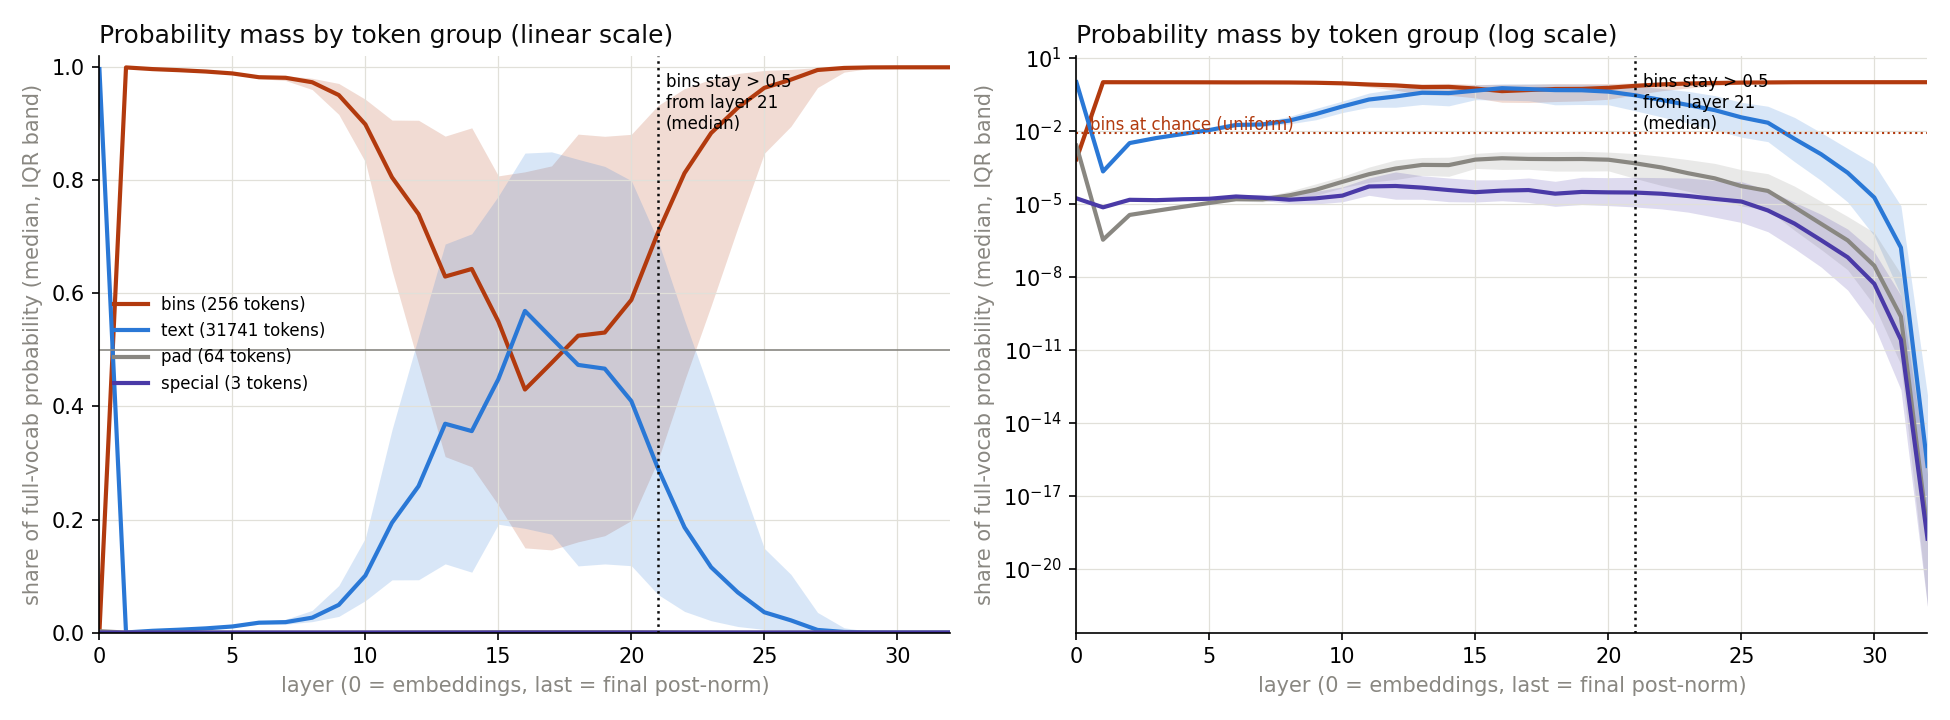
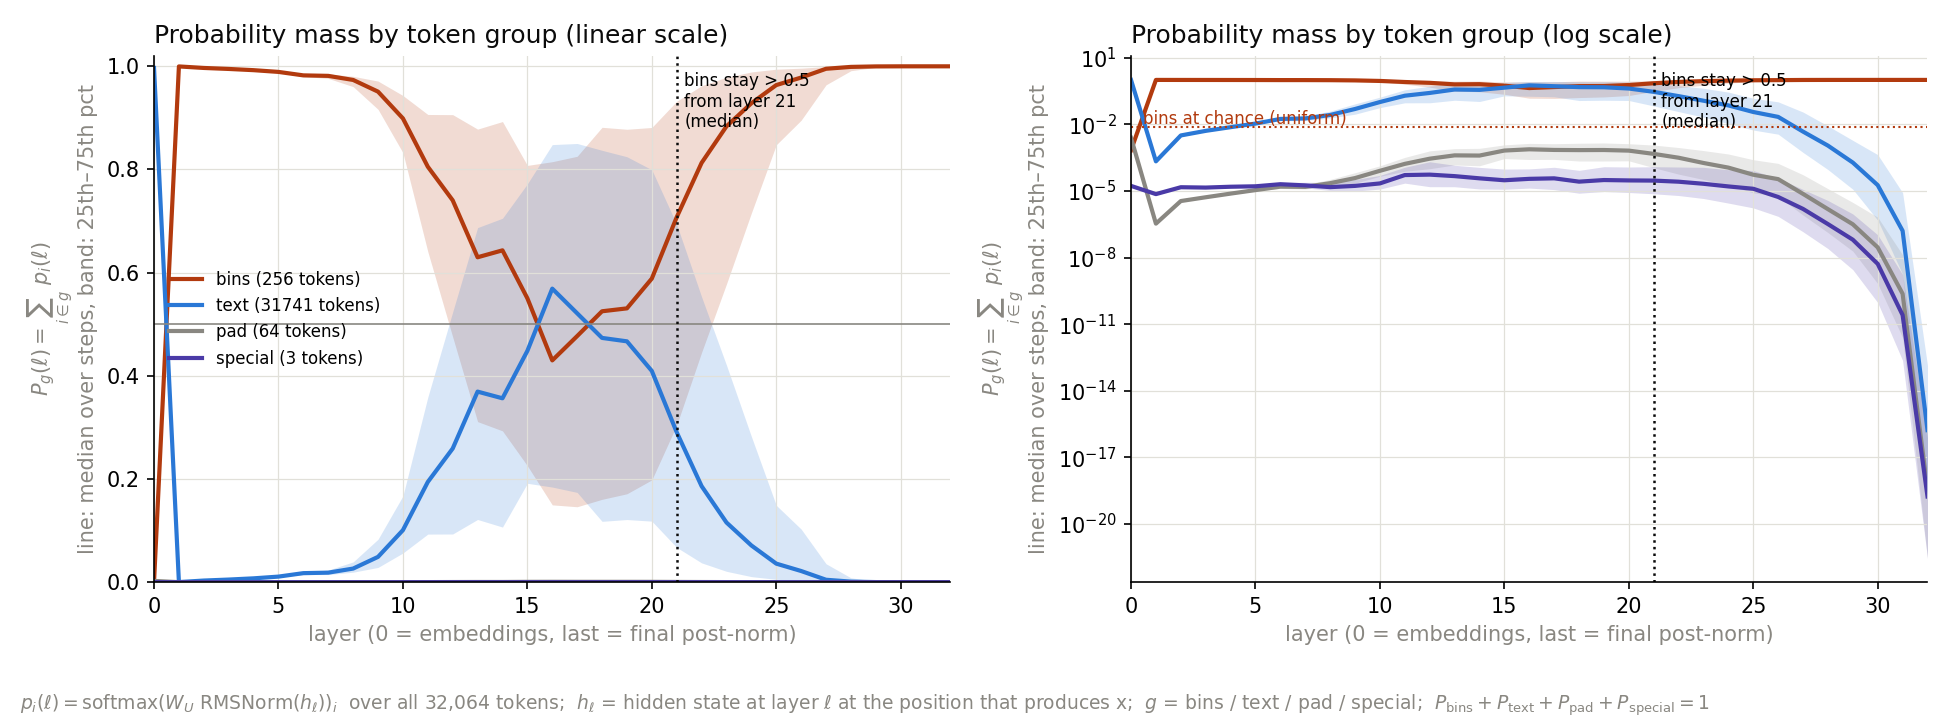
vocablens: put the P_g formula and p_i definition on the mass plot

diff --git a/experiments.py b/experiments.py
@@ -1854,13 +1854,26 @@ def plot_vocablens(out_dir):
         ax.set_title(f"Probability mass by token group ({'log' if log else 'linear'} scale)",
                      loc="left", fontsize=12, color=INK)
         ax.set_xlabel("layer (0 = embeddings, last = final post-norm)", color=MUTED)
-        ax.set_ylabel("share of full-vocab probability (median, IQR band)", color=MUTED)
+        ax.set_ylabel(r"$P_g(\ell) = \sum_{i \in g}\ p_i(\ell)$" + "\nline: median over steps, band: 25th–75th pct",
+                      color=MUTED)
         ax.grid(True, color=GRID, linewidth=0.6)
         for s in ("top", "right"):
             ax.spines[s].set_visible(False)
         ax.set_xlim(0, L)
     axes[0].legend(frameon=False, fontsize=8, loc="center left")
-    save_fig(fig, os.path.join(plots, "vocablens_mass.png"))
+    # save_fig's tight_layout would ignore the footnote, so leave room for it here.
+    fig.tight_layout(rect=(0, 0.07, 1, 1))
+    fig.text(0.01, 0.015,
+             r"$p_i(\ell) = \mathrm{softmax}\left(W_U\ \mathrm{RMSNorm}(h_\ell)\right)_i$"
+             f"  over all {sum(size.values()):,} tokens;  "
+             r"$h_\ell$ = hidden state at layer $\ell$ at the position that produces x;  "
+             r"$g$ = bins / text / pad / special;  "
+             r"$P_{\mathrm{bins}} + P_{\mathrm{text}} + P_{\mathrm{pad}} + P_{\mathrm{special}} = 1$",
+             fontsize=9, color=MUTED)
+    path = os.path.join(plots, "vocablens_mass.png")
+    fig.savefig(path, dpi=150)
+    plt.close(fig)
+    print(f"[plot] {path}")
 
     # ---- 2. what group is the single most likely token in? ----
     tg = r["top1_group"]
